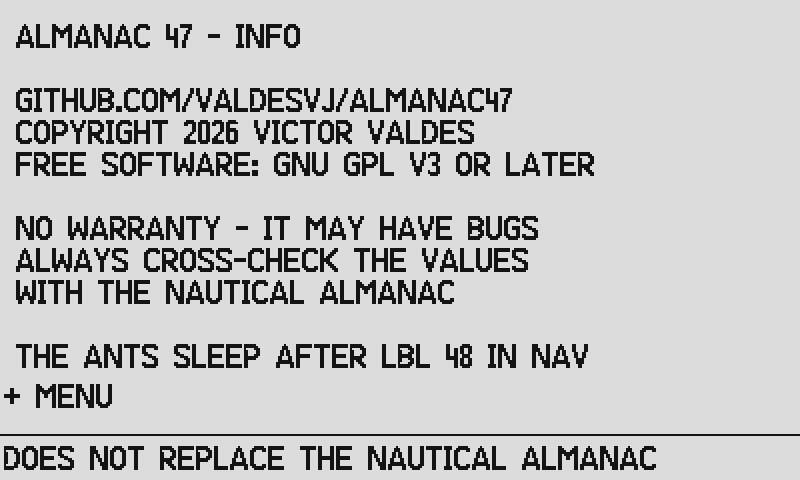
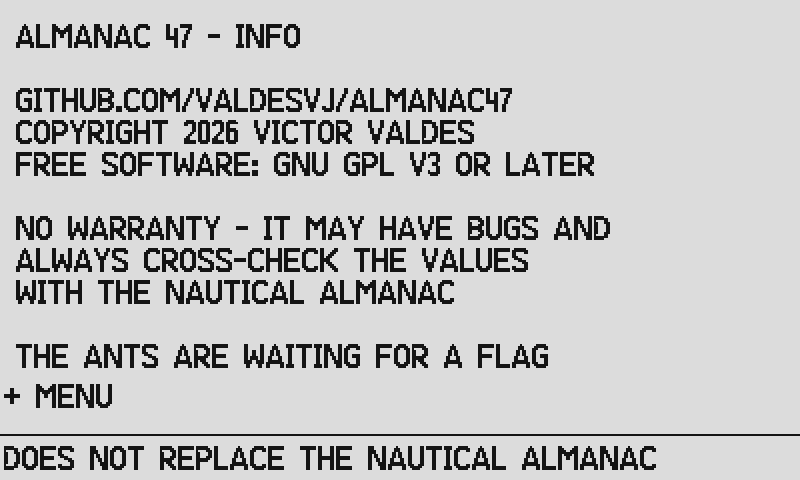
INFO: 'bugs and'; the ants also with flag 47 (SF 47), INFO only hints at a flag
Claude-Session: https://claude.ai/code/session_01677MyYEjVMcLMWfCdQA5yQ

Changed region(s): [[0.2188, 0.7188, 0.75, 0.7812], [0.6875, 0.4375, 0.7812, 0.5]]

diff --git a/tools/generators/gennav.py b/tools/generators/gennav.py
@@ -26,12 +26,13 @@ import gencache
 ITEMS = ['ALMANAC', 'CHART', 'TEXT', 'SKY', 'SMALL', 'SPLIT', 'ANIM', 'ALLSKY', 'INFO']
 VIEWS = ['ALMF', 'HALMV', 'ALMT', 'HORZ', 'ALMS', 'HALMH', 'HANIM', 'ALLSKY', None]      # 9 INFO: a page in NAV
 INFO = ['ALMANAC 47 - INFO', '', 'GITHUB.COM/VALDESVJ/ALMANAC47', 'COPYRIGHT 2026 VICTOR VALDES', 'FREE SOFTWARE: GNU GPL V3 OR LATER', '',
-        'NO WARRANTY - IT MAY HAVE BUGS', 'ALWAYS CROSS-CHECK THE VALUES', 'WITH THE NAUTICAL ALMANAC', '', 'THE ANTS SLEEP AFTER LBL 48 IN NAV']
+        'NO WARRANTY - IT MAY HAVE BUGS AND', 'ALWAYS CROSS-CHECK THE VALUES', 'WITH THE NAUTICAL ALMANAC', '', 'THE ANTS ARE WAITING FOR A FLAG']
 TOP, PITCH, XL, XR = 176, 28, 16, 206
 BOX_W, BOX_H = 170, 16
 TITLE = 'ALMANAC 47'
 UP, DOWN = 51, 61                      # arrow keycodes
 BUSY = 'SINKING....ABOUT'              # the box in the middle while the calculator works
+ANTS_FLAG = 20                         # flag 47 set (SF 47): that many ants, no need to edit the program
 ANTS = 0                               # easter egg: the step after LBL 48 in NAV; 20 gives 20 ants (0.1 s each)
 HINT = 'KEY A NUMBER    + MENU    UP DOWN 1 HOUR'
 WARNING = 'DOES NOT REPLACE THE NAUTICAL ALMANAC'
@@ -158,7 +159,7 @@ def program(inp, items=ALL, autoinit=False):
       # The C47 shows the screen only at a PAUSE: while the next screen is computed and drawn the
       # display keeps this one, ants included, until the new screen's PAUSE 1.
       # LBL 48: the SINKING box (LBL 52), then the ants if there are any (the number after LBL 48)
-      'LBL 48', ANTS, 'STO 49', 'XEQ 52', 'RCL 49', 'X=0?', 'RTN', 'LBL 46', 'XEQ 47', 'PAUSE 1', 'DSE 49', 'GTO 46', 'RTN',
+      'LBL 48', ANTS, 'FS? 47', ANTS_FLAG, 'STO 49', 'XEQ 52', 'RCL 49', 'X=0?', 'RTN', 'LBL 46', 'XEQ 47', 'PAUSE 1', 'DSE 49', 'GTO 46', 'RTN',
       *busy_box(),
       # LBL 47: one ant (10 x 14 pixels) at a random place, column by column, GRMOD 3 (XOR)
       'LBL 47', 'XEQ 50',

diff --git a/DEVELOPMENT_NOTES.md b/DEVELOPMENT_NOTES.md
@@ -362,3 +362,9 @@ INIT with the builders as LBL 01-04.
   7 ANIM, 8 ALLSKY, 9 INFO (LBL 18 in NAV: repository, copyright, GPL, no warranty, cross-check,
   the ants hint; held by WPLS). CWID no longer in the NAV builds. Compact: 1 2 4 8 9.
   NAVFULL 12,951 -> 11,825 lines.
+- Ants: flag 47 set (SF 47) gives ANTS_FLAG = 20 ants without editing NAV (LBL 48: 0, FS? 47, 20,
+  STO 49); the step after LBL 48 still works too. INFO says only THE ANTS ARE WAITING FOR A FLAG.
+- Estimate, if the firmware could print text on the graphics screen (only the symbols and the
+  ants kept as AGRAPH): the fonts are 2,284 of 11,828 NAVFULL lines (symbols about 290), so
+  about 1,950 lines less; font steps per screen from the cache: ALMF 89 %, ALMS 89 %, HALMH 59 %,
+  HALMV 42 %, ALLSKY 35 % -> ALMF about 5 times faster, the chart views 1.4-1.7 times.
